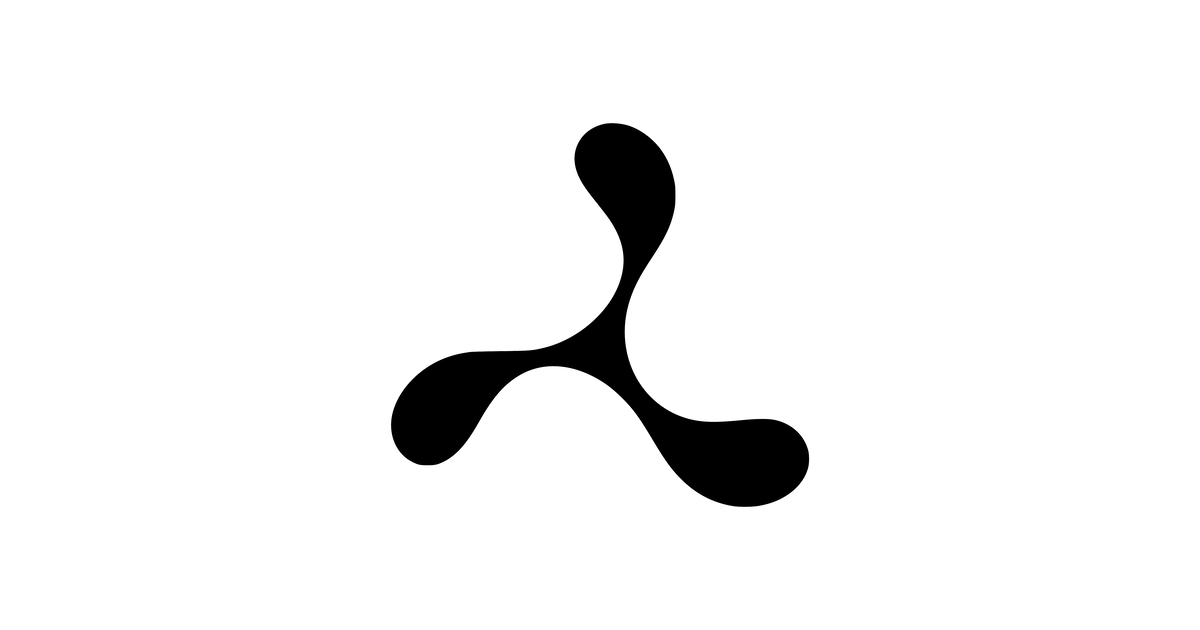
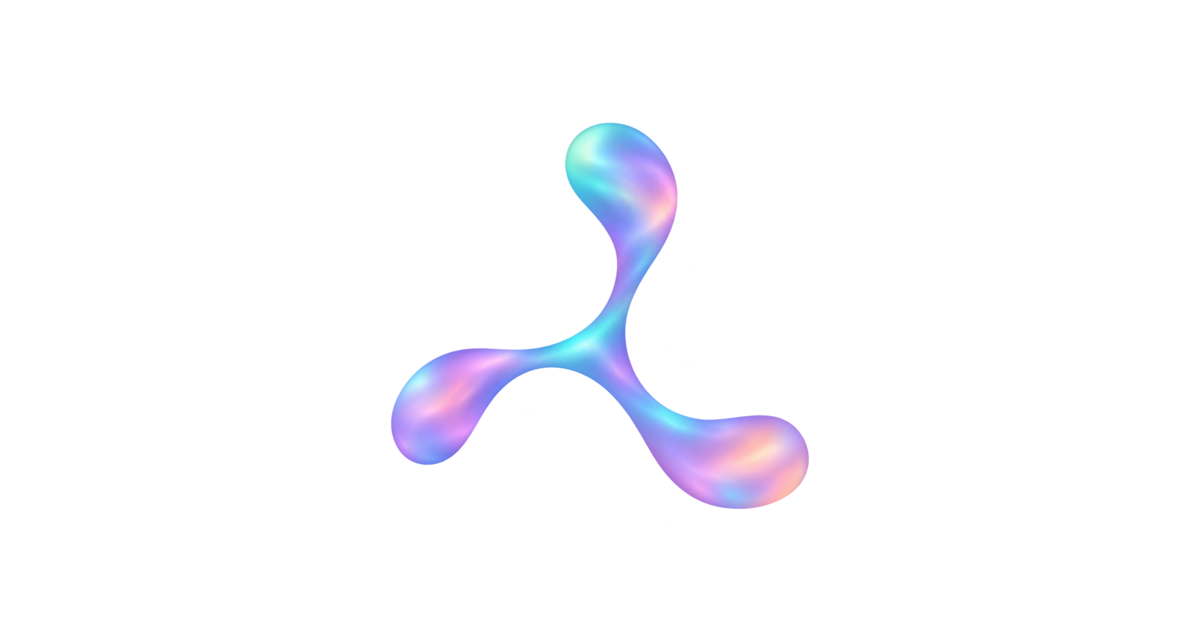
Use the pastel Computa mark across macOS and the website

Changed region(s): [[0.3083, 0.181, 0.6783, 0.8143]]

diff --git a/Website/index.html b/Website/index.html
@@ -4,7 +4,7 @@
     <meta charset="UTF-8" />
     <meta name="viewport" content="width=device-width, initial-scale=1.0" />
     <meta name="computa-site-revision" content="%VITE_BUILD_REVISION%" />
-    <link rel="icon" type="image/svg+xml" href="/favicon.svg" />
+    <link rel="icon" type="image/png" href="/favicon-pastel.png" />
     <title>Computa</title>
     <meta name="description" content="Use AI to browse the web, run terminal commands, and edit files on your Mac." />
     <link rel="canonical" href="https://computa.wtf/" />
@@ -12,14 +12,14 @@
     <meta property="og:url" content="https://computa.wtf/" />
     <meta property="og:title" content="Computa" />
     <meta property="og:description" content="Use AI to browse the web, run terminal commands, and edit files on your Mac." />
-    <meta property="og:image" content="https://computa.wtf/computa-preview.png" />
+    <meta property="og:image" content="https://computa.wtf/computa-preview.png?v=pastel" />
     <meta property="og:image:type" content="image/png" />
     <meta property="og:image:width" content="1200" />
     <meta property="og:image:height" content="630" />
-    <meta property="og:image:alt" content="Black Computa logo on a white background" />
+    <meta property="og:image:alt" content="Cyan, lilac and peach Computa logo on a white background" />
     <meta name="twitter:card" content="summary_large_image" />
-    <meta name="twitter:image" content="https://computa.wtf/computa-preview.png" />
-    <meta name="twitter:image:alt" content="Black Computa logo on a white background" />
+    <meta name="twitter:image" content="https://computa.wtf/computa-preview.png?v=pastel" />
+    <meta name="twitter:image:alt" content="Cyan, lilac and peach Computa logo on a white background" />
   </head>
   <body>
     <div id="root"></div>

diff --git a/Website/src/main.tsx b/Website/src/main.tsx
@@ -3,7 +3,7 @@ import './style.css';
 
 createRoot(document.getElementById('root')!).render(
   <main>
-    <img src="/favicon.svg" alt="Computa" />
+    <img src="/computa-pastel.png" alt="Computa" />
     <a href="/download">Download for macOS</a>
     <p>Apple Silicon · macOS 14 or later</p>
     <a className="notes" href="https://github.com/ahmed-ela/computa/releases">Release notes and checksums</a>

diff --git a/crates/xtask/src/assets.rs b/crates/xtask/src/assets.rs
@@ -84,17 +84,19 @@ pub fn copy_tree(source: &Path, destination: &Path) -> io::Result<()> {
 pub fn website(root: &Path) -> io::Result<PathBuf> {
     let destination = root.join("target/website");
     fs::create_dir_all(&destination)?;
-    fs::copy(
-        root.join("Website/public/favicon.svg"),
-        destination.join("favicon.svg"),
-    )?;
+    for image in ["favicon-pastel.png", "computa-pastel.png"] {
+        fs::copy(
+            root.join("Website/public").join(image),
+            destination.join(image),
+        )?;
+    }
     fs::copy(
         root.join("Website/src/style.css"),
         destination.join("style.css"),
     )?;
     fs::write(
         destination.join("index.html"),
-        "<!doctype html><html lang=\"en\"><head><meta charset=\"utf-8\"><meta name=\"viewport\" content=\"width=device-width,initial-scale=1\"><link rel=\"icon\" type=\"image/svg+xml\" href=\"/favicon.svg\"><link rel=\"stylesheet\" href=\"style.css\"><title>Computa</title></head><body><div id=\"root\"><img src=\"/favicon.svg\" alt=\"Computa\"></div></body></html>",
+        "<!doctype html><html lang=\"en\"><head><meta charset=\"utf-8\"><meta name=\"viewport\" content=\"width=device-width,initial-scale=1\"><link rel=\"icon\" type=\"image/png\" href=\"/favicon-pastel.png\"><link rel=\"stylesheet\" href=\"style.css\"><title>Computa</title></head><body><div id=\"root\"><img src=\"/computa-pastel.png\" alt=\"Computa\"></div></body></html>",
     )?;
     Ok(destination)
 }
